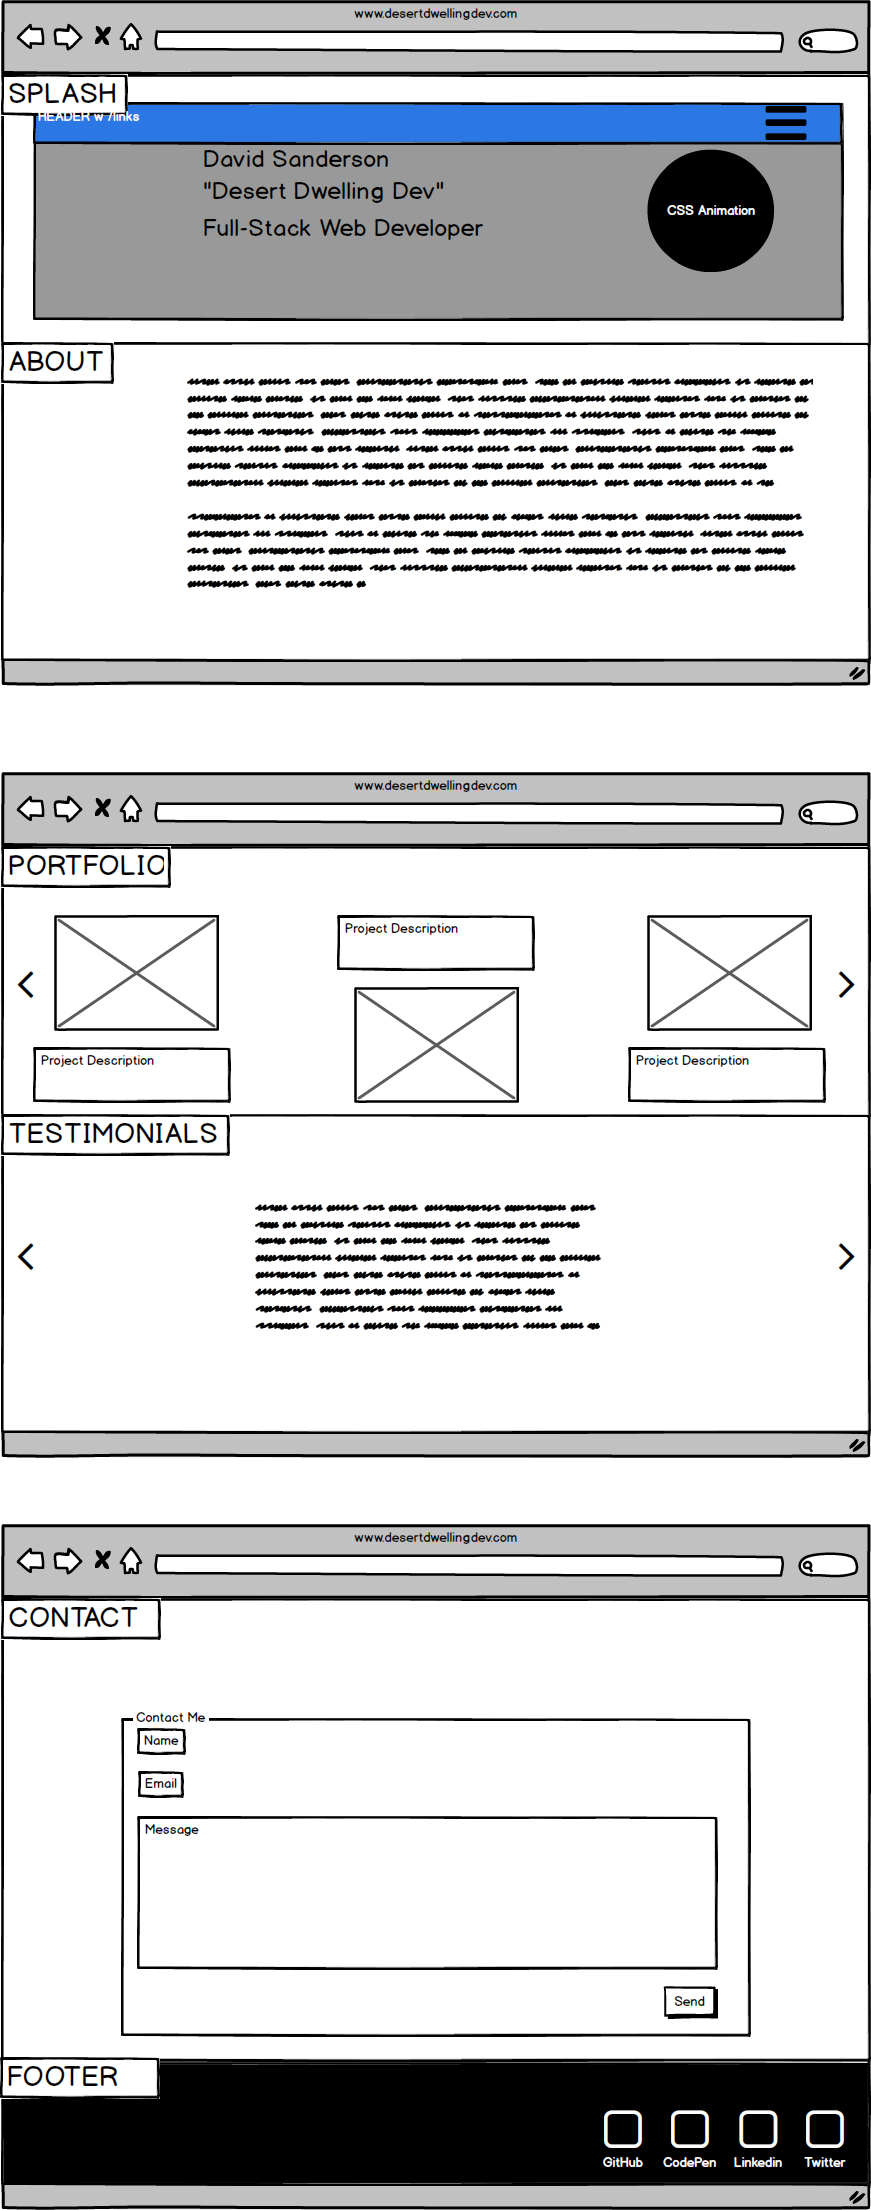
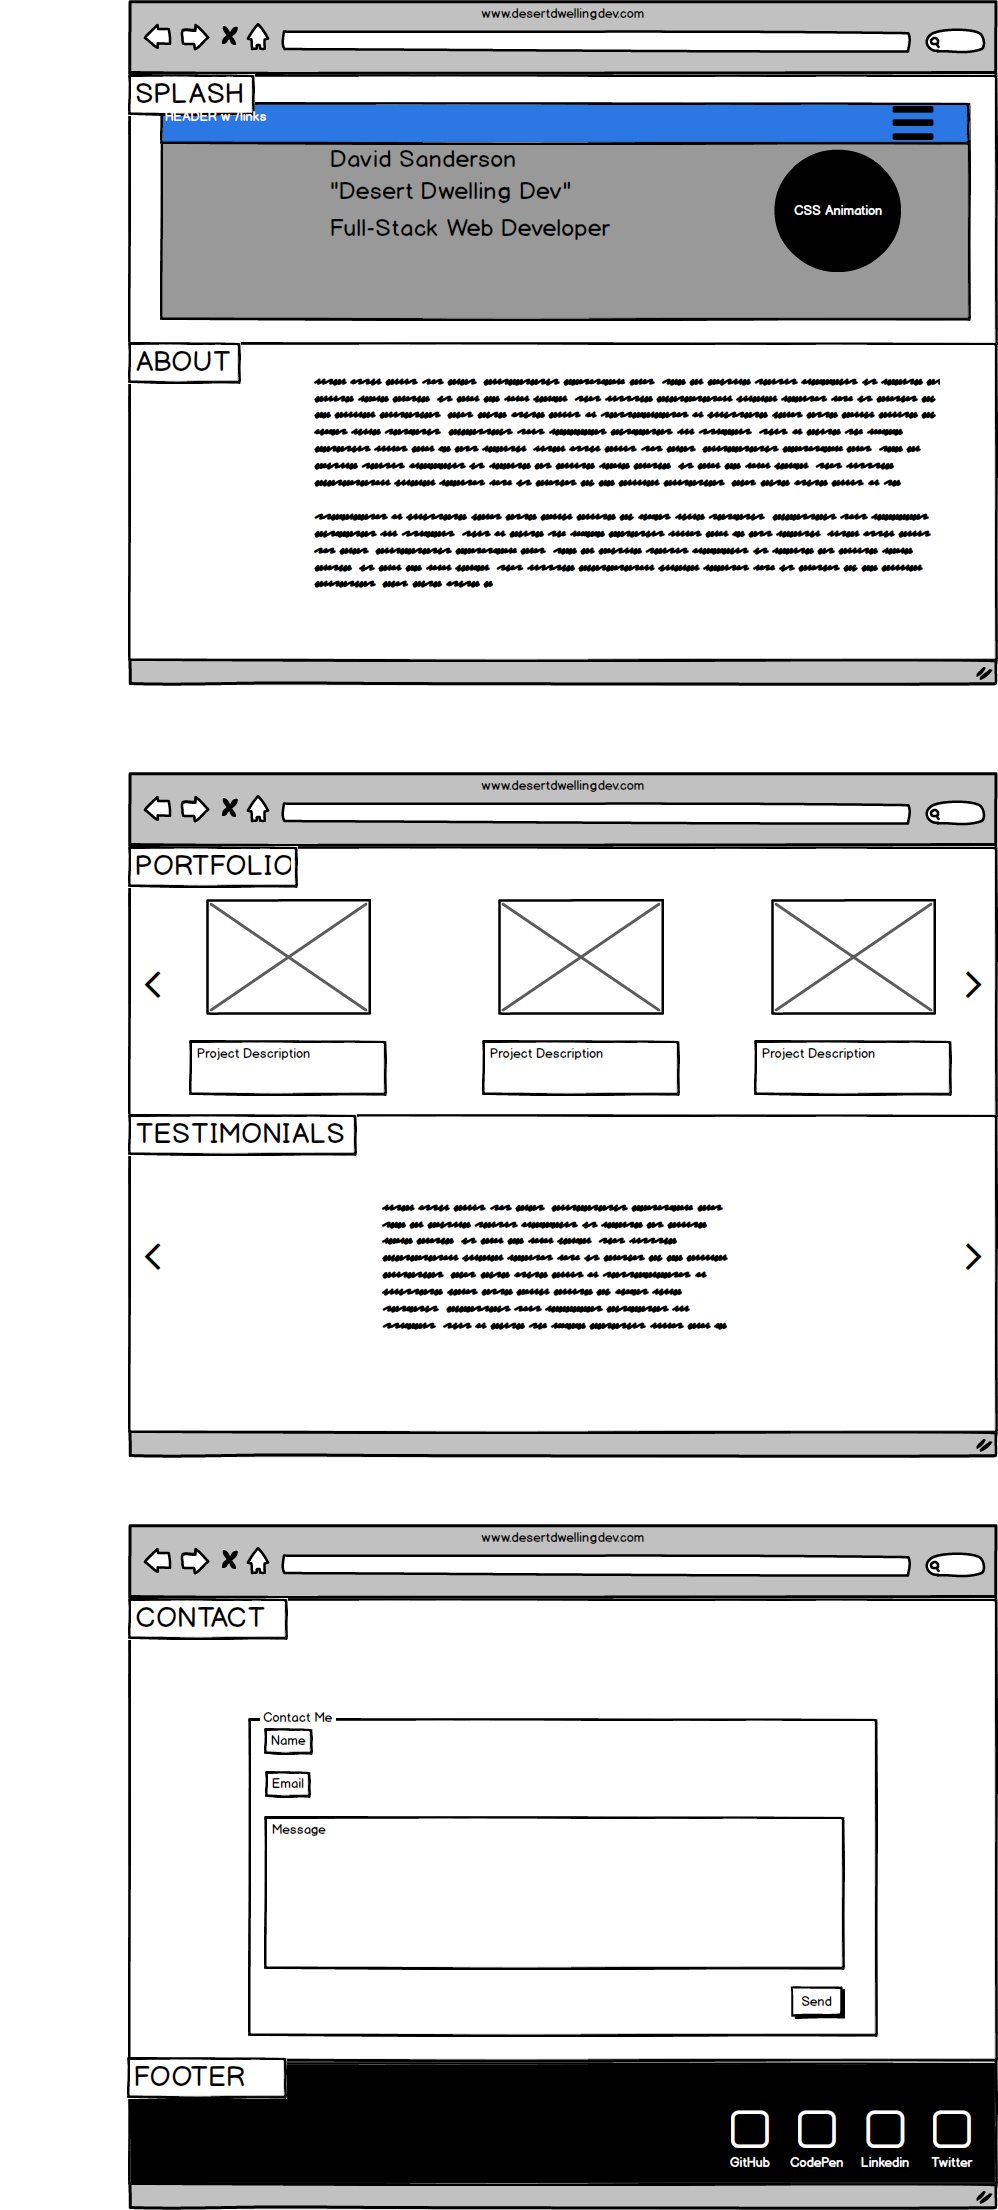
added about section

diff --git a/index.html b/index.html
@@ -62,7 +62,7 @@
 						</li>
 					</ul>
 					<form class="form-inline my-lg-0">
-						<button class="btn btn-outline-success my-2 my-sm-0 text-monospace" type="submit">
+						<button class="btn btn-outline-success my-2 my-sm-0 text-monospace mr-4" type="submit">
 							//desertDwellingDev
 						</button>
 					</form>
@@ -97,13 +97,13 @@
 			<div class="container py-3">
 				<div class="row shadow p-3 bg-white rounded">
 					<div class="col-sm-12 p-3">
-						<h1 class="font-weight-bold text-monospace display-5">about</h1>
+						<h1 class="font-weight-bold text-monospace display-5">About</h1>
 					</div>
 					<div class="col-sm-4">
 						<img class="img-fluid mb-4 bw" src="" alt="">
 					</div>
 					<div class="col-sm-8">
-						<p class="lead">
+						<p class="lead"> Hi my name is David Sanderson. I am a Full-stack Web developer with experience using web technologies like Angular, JS, CSS, HTML, PHP, and Bootstrap to create custom web solutions. I am an enthusiastic learner who excels in environments where I can problem solve and contribute to a team. I was on the dev team for 505FoodTruckFinder which was a contestant in the UNM App contest. I worked intensively on the Google Maps Javascript API integration during this project. I am currently learning React and MongoDB in my free time.
 						</p>
 					</div>
 				</div>
@@ -118,7 +118,7 @@
 			<div class="container py-3">
 				<div class="row shadow p-3 bg-light rounded">
 					<div class="col-sm-12 p-3">
-						<h1 class="font-weight-bold text-center text-monospace display-5">portfolio</h1>
+						<h1 class="font-weight-bold text-center text-monospace display-5">Portfolio</h1>
 					</div>
 					<div class="col-sm-4">
 						<img class="img-fluid mb-4 bw" src="" alt="">
@@ -139,7 +139,7 @@
 			<div class="container py-3">
 				<div class="row shadow p-3 bg-light rounded">
 					<div class="col-sm-12 p-3">
-						<h1 class="font-weight-bold text-monospace display-5 text-right">testimonials</h1>
+						<h1 class="font-weight-bold text-monospace display-5 text-right">Testimonials</h1>
 					</div>
 					<div class="col-sm-4">
 						<img class="img-fluid mb-4 bw" src="" alt="">
@@ -160,7 +160,7 @@
 			<div class="container py-3 border">
 				<div class="row shadow p-3 mb-5 bg-white rounded">
 					<div class="col-sm-12 p-3">
-						<h1 class="font-weight-bold text-right text-monospace text display-6">contact</h1>
+						<h1 class="font-weight-bold text-right text-monospace text display-6">Contact</h1>
 					</div>
 					<div class="col-sm-6">
 						<p class="lead font-weight-bold">Thanks for having a look around. My favorite thing about coding is that you can use it to build whatever you want. What can we build <span class="text-success">together?</span>

diff --git a/documentation/style.css b/documentation/style.css
@@ -1,51 +1,29 @@
-.header {
-	border-radius:3px;
-	padding-left:3px;
+:root{
+	--lightBG: #ccc;
+	--darkBG: #000;
 }
 
-.container {
-	max-height: 100vh;
-	max-width: 100vw;
+.dark {
+	background-color: var(--darkBG);
+	color: var(--lightBG);
 }
 
-input {
+.cool-link {
+	display: inline-block;
+	color: #000;
+	text-decoration: none;
+}
+
+.cool-link::after {
+	content: '';
 	display: block;
+	width: 0;
+	height: 2px;
+	background: #000;
+	transition: width .3s;
 }
 
-textarea {
-	display: block;
-}
-
-.form-wrapper {
-	background-color: blue;
-	color: azure;
-	padding: 15px 35px;
-	padding-bottom: 35px;
-}
-input, textarea {
-	display: block;
-	width: 365px;
-	margin-bottom: 20px;
-	margin-top: 10px;
-	padding-left: 15px;
-	font-family: monospace;
-}
-
-input {
-	height: 35px;
-}
-
-button {
-	background-color: black;
-	color: white;
-	width: 100px;
-	height:30px;
-	font-weight: bold;
-	border: 0;
-	-webkit-appearance: none;
-}
-
-.testimonials {
-	background-color: rgb(121, 244, 122);
-	height: 100%;
+.cool-link:hover::after {
+	width: 100%;
+//transition: width .3s;
 }

diff --git a/documentation/darkmode.js b/documentation/darkmode.js
@@ -1,0 +1,5 @@
+
+function toggleDark() {
+	var element = document.getElementById("toggleStyle");
+	element.classList.toggle("dark")
+}
